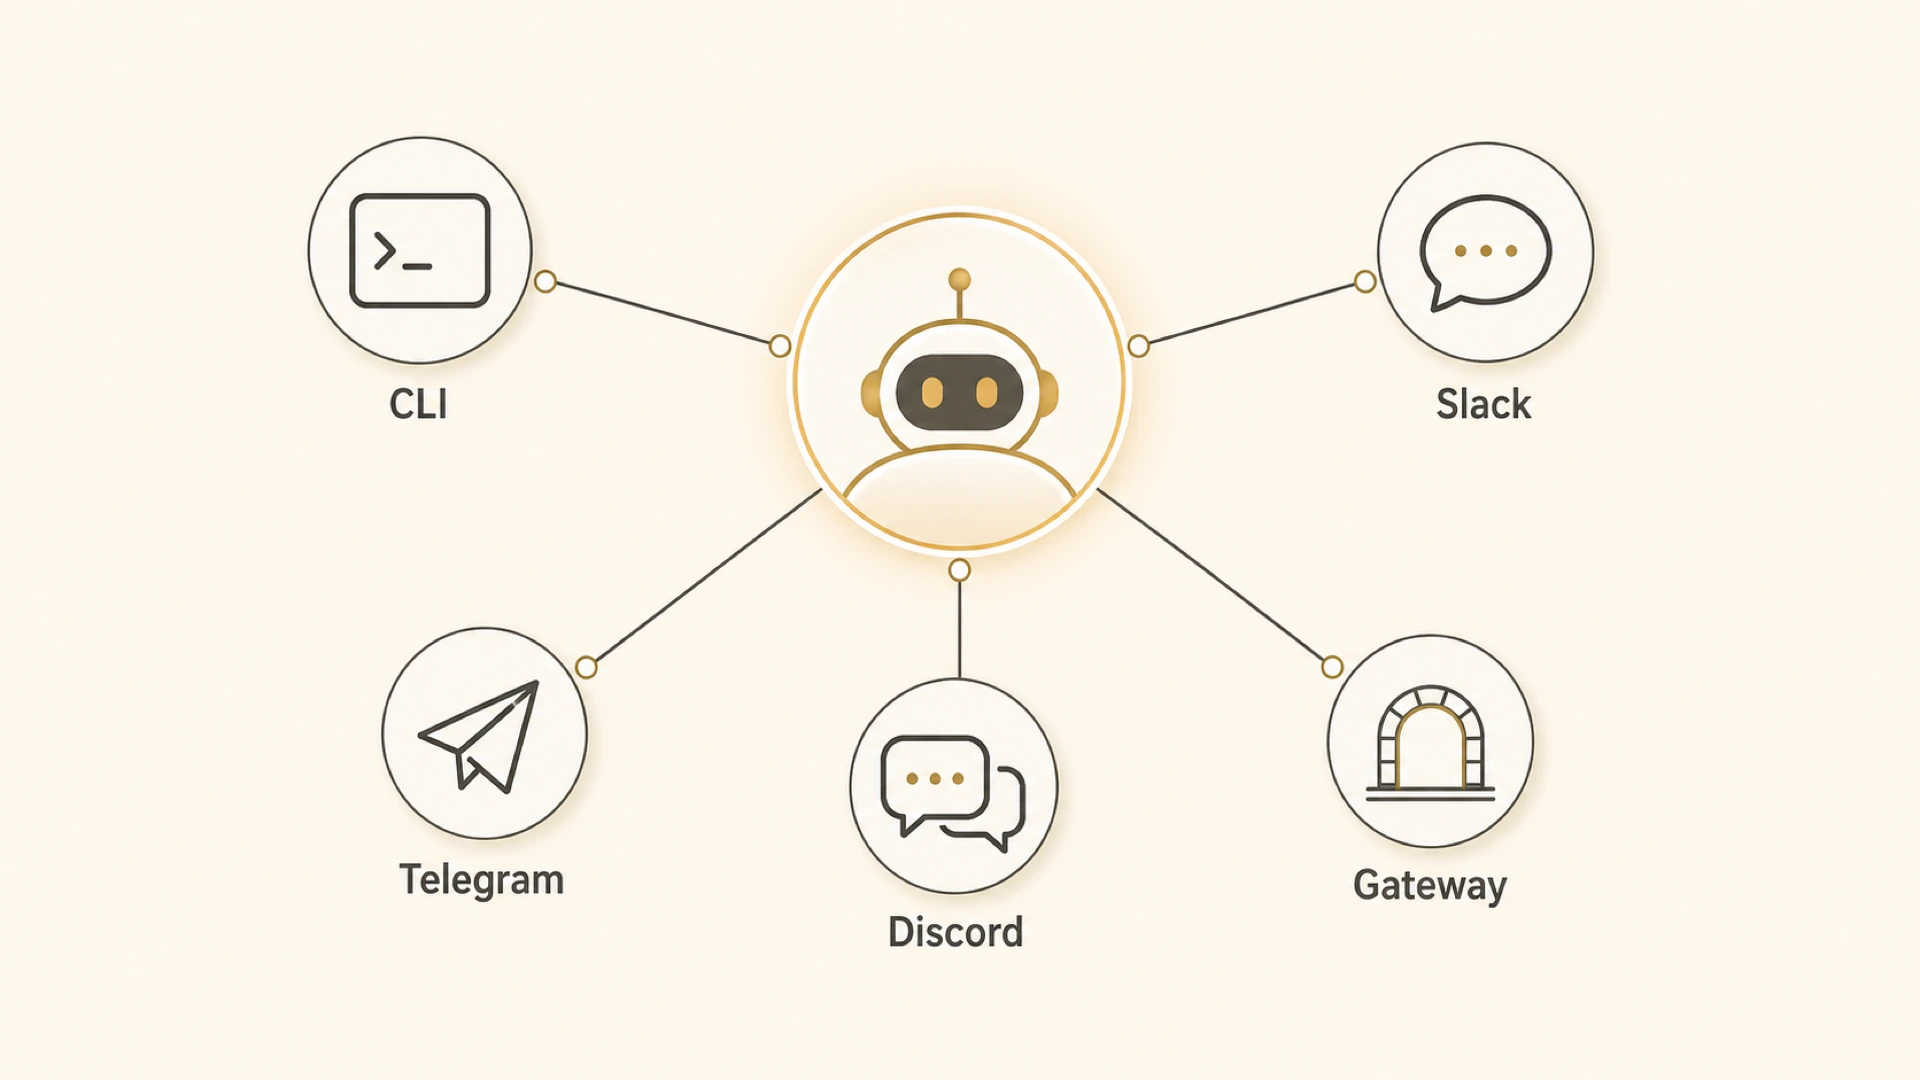
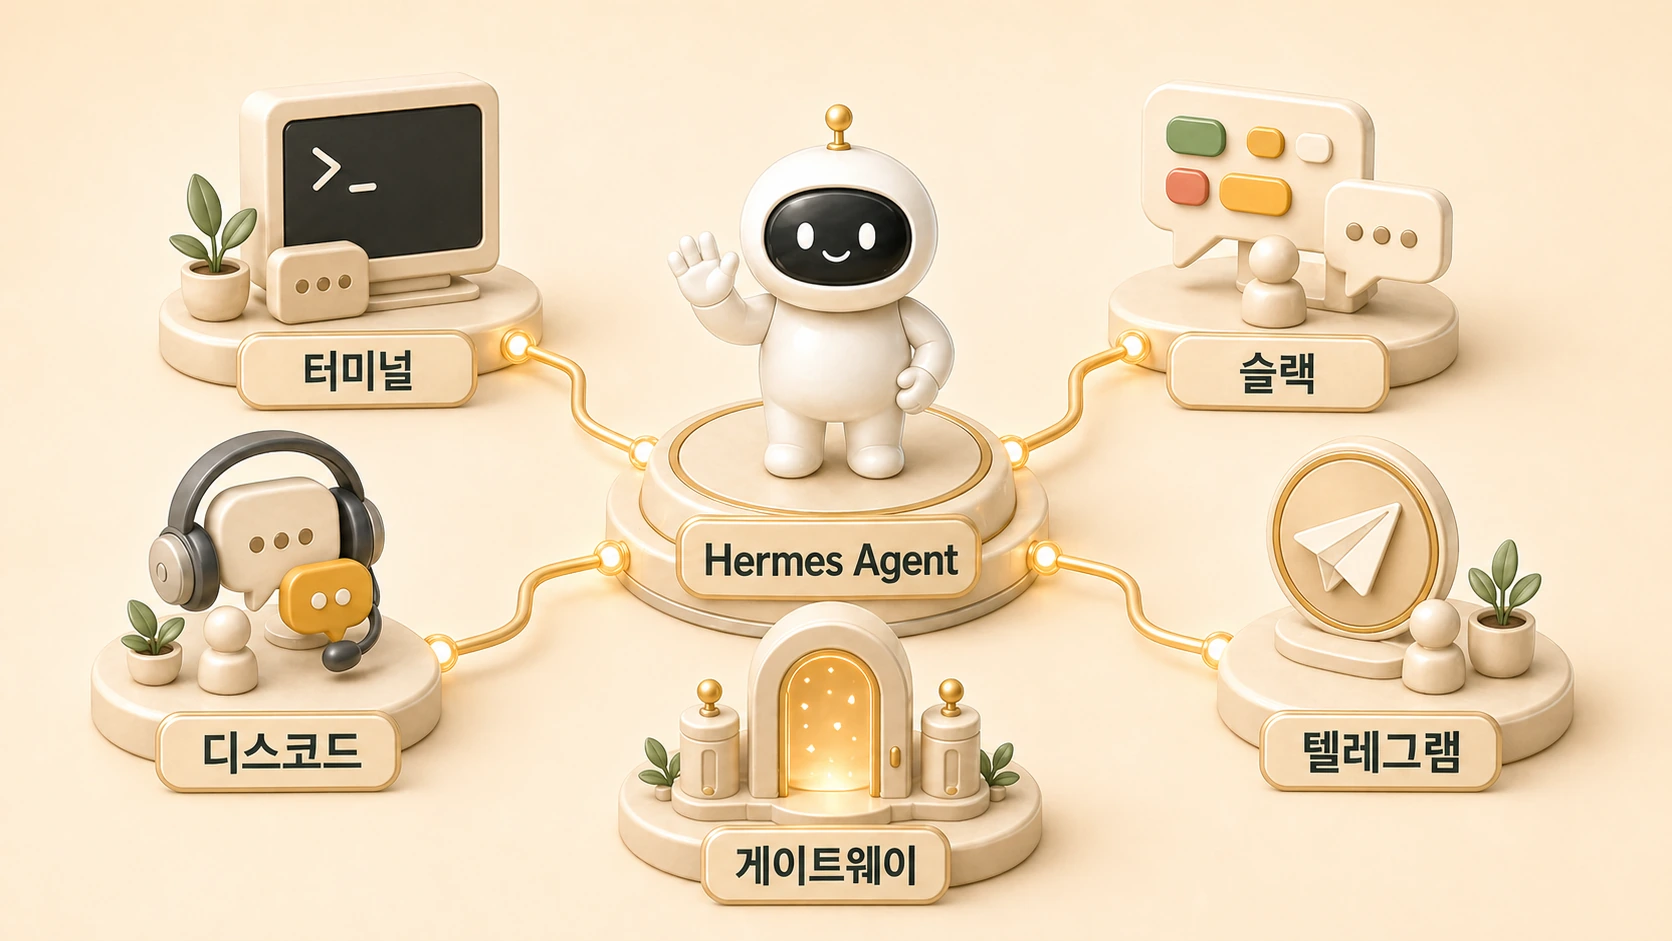
chore: refresh chapter 0 image assets

diff --git a/pages/01-why-we-moved-from-openclaw-to-hermes.md b/pages/01-why-we-moved-from-openclaw-to-hermes.md
@@ -4,7 +4,7 @@
 
 ![OpenClaw에서 Hermes로 구조를 전환하는 흐름](../assets/how-image-agent-creates-wikidocs-visuals/ch00-4-openclaw-hermes-comparison-codex.webp)
 
-![OpenClaw에서 Hermes로 구조 전환한 이유](../assets/how-image-agent-creates-wikidocs-visuals/ch1-5-openclaw-to-hermes-codex.png)
+![OpenClaw에서 Hermes로 구조 전환한 이유](../assets/how-image-agent-creates-wikidocs-visuals/ch1-5-openclaw-to-hermes-codex.webp)
 
 이 글은 전환의 세부 설정을 설명하기 위한 글이 아니다. 실제 운영에서 어떤 혼선이 있었고, 왜 현재 기준점을 다시 세워야 했는지 설명하기 위한 글이다. 중요한 것은 내부값이 아니라 “전환할 때 무엇을 분리해서 봐야 하는가”다.
 
@@ -42,7 +42,7 @@ OpenClaw는 이 문제를 발견하게 만든 중요한 출발점이었고, Herm
 
 ## OpenClaw에서 Hermes로 넘어오며 실제로 바뀐 것
 
-![이름 변경이 아니라 구조 전환](../assets/why-we-moved-from-openclaw-to-hermes/article-figure-01-transition-structure.png)
+![이름 변경이 아니라 구조 전환](../assets/why-we-moved-from-openclaw-to-hermes/article-figure-01-transition-structure.webp)
 
 ### 1. 멀티 에이전트보다 단일 창구가 중요해졌다
 
@@ -92,7 +92,7 @@ Hermes에서 중요한 건 예쁜 답변 하나가 아니다.
 
 ## 겉으로는 단순 교체처럼 보였지만, 실제 전환은 훨씬 복잡했다
 
-![체감 변화는 경계 문제로 번역된다](../assets/why-we-moved-from-openclaw-to-hermes/article-figure-02-boundary-translation.png)
+![체감 변화는 경계 문제로 번역된다](../assets/why-we-moved-from-openclaw-to-hermes/article-figure-02-boundary-translation.webp)
 
 OpenClaw에서 Hermes로 넘어오는 일은 “옛날 이름 지우고 새 이름 붙이기”처럼 깔끔하게 끝나지 않는다. 실제 시스템 전환에는 흔적이 남는다.
 
@@ -143,7 +143,7 @@ shared-memory → 팀 공통 기준과 handoff
 
 ## 그래서 OpenClaw를 버린 게 아니라, 위치를 다시 정리한 것이다
 
-![과거를 지우는 게 아니라 기준점을 다시 세우는 일](../assets/why-we-moved-from-openclaw-to-hermes/article-figure-03-legacy-governance.png)
+![과거를 지우는 게 아니라 기준점을 다시 세우는 일](../assets/why-we-moved-from-openclaw-to-hermes/article-figure-03-legacy-governance.webp)
 
 여기서 자주 나오는 오해가 있다.
 

diff --git a/pages/00-agent-team-reading-guide.md b/pages/00-agent-team-reading-guide.md
@@ -2,7 +2,7 @@
 
 이 책에는 하비, 방울이, 뽀동이, 봉구, 비벙이, 하망이 같은 이름이 나온다. 처음 보는 독자에게는 이 이름들이 내부 세계관처럼 느껴질 수 있다. 그래서 먼저 분명히 해두자. 이 이름들은 캐릭터 소개가 아니라 **[Hermes Agent](https://wikidocs.net/346055) 업무 자동화에서 역할형 에이전트를 실제로 운영하기 위해 붙인 호출 이름**이다.
 
-![하비 방울이 뽀동이를 역할형 에이전트로 읽는 법](../assets/how-image-agent-creates-wikidocs-visuals/ch1-3-agent-team-reading-guide-codex.png)
+![하비 방울이 뽀동이를 역할형 에이전트로 읽는 법](../assets/how-image-agent-creates-wikidocs-visuals/ch1-3-agent-team-reading-guide-codex.webp)
 
 공개 개념으로 먼저 이해하면 쉽다. 하비는 [AI 개인비서 메인 창구](https://wikidocs.net/345892), 방울이는 조사형 에이전트, 뽀동이는 정리형 에이전트에 가깝다. 봉구, 비벙이, 하망이도 각각 실행, 제품/기능 정리, 이미지 제작처럼 특정 운영 역할을 맡는다. 이름은 친근하게 붙였지만, 이 책에서 중요한 것은 이름보다 **어떤 역할을 맡고 어떤 실패를 줄이기 위해 나눴는가**다.
 
